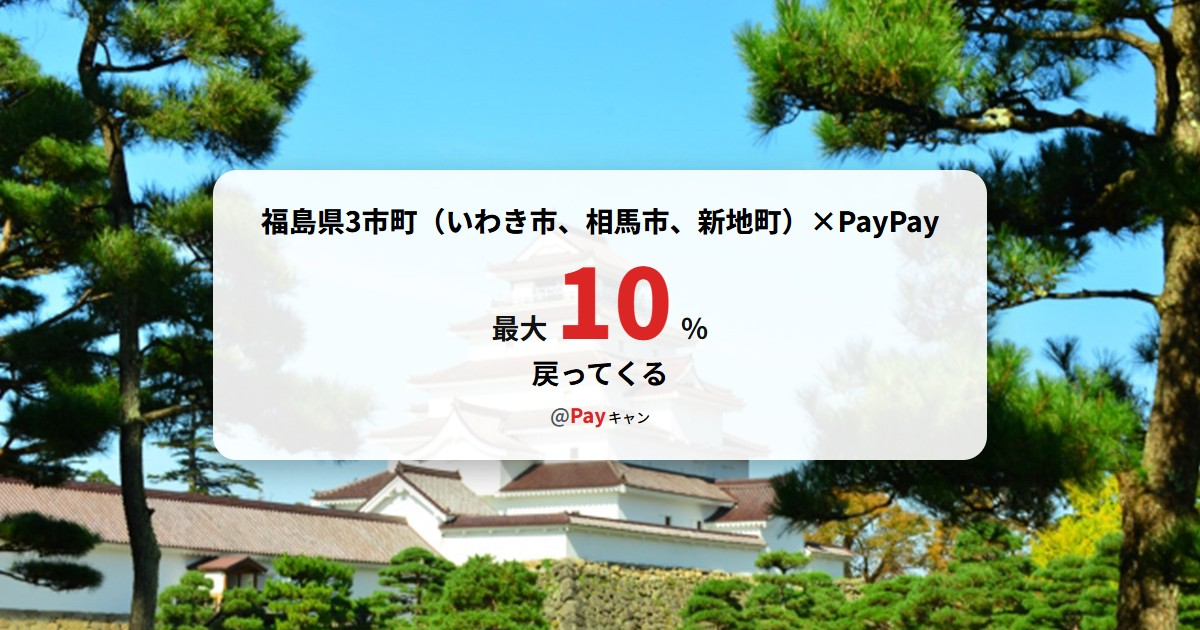
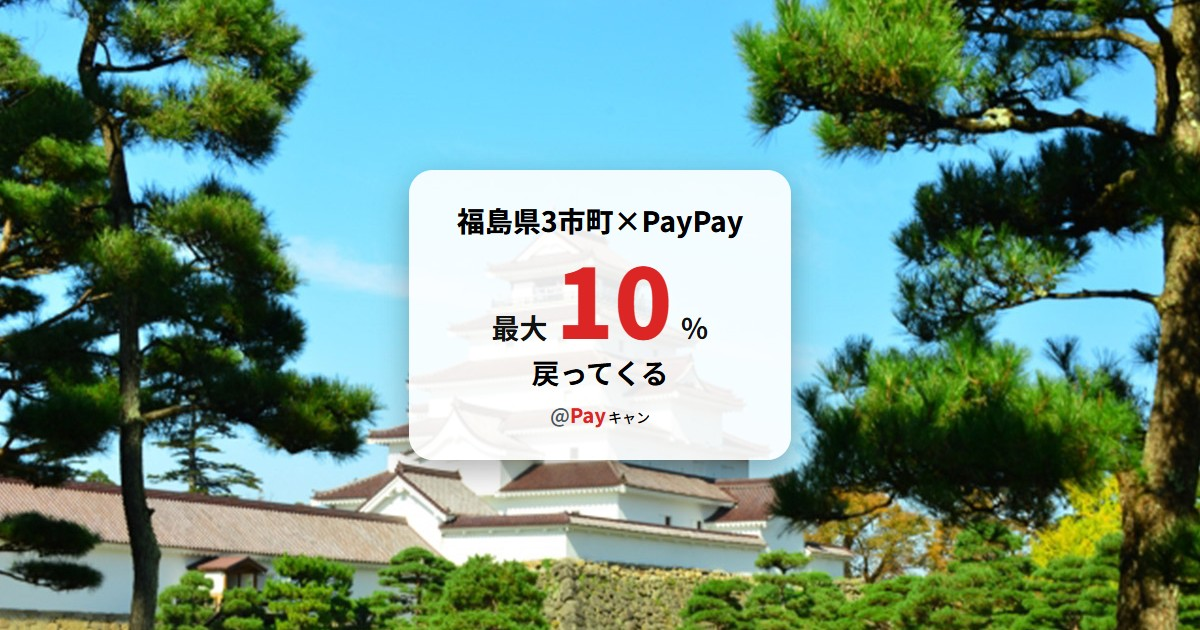
画像作成

Changed region(s): [[0.1542, 0.2413, 0.8325, 0.7841]]

diff --git a/src/lib/campaignMasterOgp.ts b/src/lib/campaignMasterOgp.ts
@@ -1,0 +1,60 @@
+import type { Campaign } from "@/types/campaign";
+
+export const campaignsA: Campaign[] = [
+{ paytype: "paypay", prefectureSlug: "ishikawa", citySlug: "shiga", prefecture: "石川県", city: "志賀町", offer: 20, startDate: "2025-05-07", endDate: "2025-07-06", onepoint: "2000", fullpoint: "8000", campaigntitle: "「買える、志賀町」　ポイントが「還る、志賀町」キャンペーン", notice: "", datePublished: "2025-04-07", dateModified: "2025-07-06", officialUrl: "https://www.town.shika.lg.jp/kankou/roudousya_syouhisya/PayPaypromotion_2025_01.html" },
+  { paytype: "paypay", prefectureSlug: "wakayama", citySlug: "tanabe", prefecture: "和歌山県", city: "田辺市", offer: 20, startDate: "2025-06-01", endDate: "2025-07-15", onepoint: "1000", fullpoint: "3000", campaigntitle: "キャッシュレス決済ポイント最大20％戻ってくるキャンペーン", notice: "", datePublished: "2025-05-02", dateModified: "2025-06-15", officialUrl: "https://www.city.tanabe.lg.jp/shoukou/cashless.html" },
+  { paytype: "aupay", prefectureSlug: "wakayama", citySlug: "tanabe", prefecture: "和歌山県", city: "田辺市", offer: 20, startDate: "2025-06-01", endDate: "2025-07-15", onepoint: "1000", fullpoint: "3000", campaigntitle: "未来へつながる道田辺市 キャッシュレスでauPAY残高最大20％戻ってくる", notice: "", datePublished: "2025-05-02", dateModified: "2025-07-15", officialUrl: "https://www.city.tanabe.lg.jp/shoukou/cashless.html" },
+  { paytype: "rakutenpay", prefectureSlug: "wakayama", citySlug: "tanabe", prefecture: "和歌山県", city: "田辺市", offer: 20, startDate: "2025-06-01", endDate: "2025-07-15", onepoint: "1000", fullpoint: "3000", campaigntitle: "田辺市キャッシュレス決済ポイント 最大20％戻ってくるキャンペーン第3弾", notice: "", datePublished: "2025-05-02", dateModified: "2025-07-15", officialUrl: "https://www.city.tanabe.lg.jp/shoukou/cashless.html" },
+  { paytype: "dbarai", prefectureSlug: "wakayama", citySlug: "tanabe", prefecture: "和歌山県", city: "田辺市", offer: 20, startDate: "2025-06-01", endDate: "2025-07-15", onepoint: "1000", fullpoint: "3000", campaigntitle: "キャッシュレス決済ポイント最大20％戻ってくるキャンペーン", notice: "", datePublished: "2025-05-02", dateModified: "2025-06-15", officialUrl: "https://www.city.tanabe.lg.jp/shoukou/cashless.html" },
+  { paytype: "paypay", prefectureSlug: "iwate", citySlug: "oshu", prefecture: "岩手県", city: "奥州市", offer: 20, startDate: "2025-06-21", endDate: "2025-07-31", onepoint: "5000", fullpoint: "10000", campaigntitle: "物価高騰に負けるな奥州！～対象店舗でPayPayを利用すると最大20％が戻ってくるキャンペーン～", notice: "", datePublished: "2025-05-22", dateModified: "2025-06-20", officialUrl: "https://www.city.oshu.iwate.jp/soshiki/6/1053/16013.html" },
+  { paytype: "paypay", prefectureSlug: "iwate", citySlug: "kanegasaki", prefecture: "岩手県", city: "金ケ崎町", offer: 20, startDate: "2025-07-01", endDate: "2025-07-21", onepoint: "5000", fullpoint: "10000", campaigntitle: "第4弾がんばれ金ケ崎！対象のお店で最大20％戻ってくるキャンペーン", notice: "", datePublished: "2025-06-01", dateModified: "2025-07-21", officialUrl: "https://www.town.kanegasaki.iwate.jp/articles/2025060900020/" },
+  { paytype: "paypay", prefectureSlug: "iwate", citySlug: "hirono", prefecture: "岩手県", city: "洋野町", offer: 20, startDate: "2025-07-01", endDate: "2025-07-31", onepoint: "2000", fullpoint: "5000", campaigntitle: "キャッシュレスで得しよう！ひろのスマイル還元キャンペーン", notice: "", datePublished: "2025-06-01", dateModified: "2025-06-20", officialUrl: "https://www.town.hirono.iwate.jp/doc/2025061100030/" },
+  { paytype: "dbarai", prefectureSlug: "iwate", citySlug: "hirono", prefecture: "岩手県", city: "洋野町", offer: 20, startDate: "2025-07-01", endDate: "2025-07-31", onepoint: "2000", fullpoint: "5000", campaigntitle: "キャッシュレスで得しよう！ひろのスマイル還元キャンペーン", notice: "", datePublished: "2025-06-01", dateModified: "2025-06-20", officialUrl: "https://www.town.hirono.iwate.jp/doc/2025061100030/" },
+  { paytype: "paypay", prefectureSlug: "iwate", citySlug: "hachimantai", prefecture: "岩手県", city: "八幡平市", offer: 20, startDate: "2025-07-01", endDate: "2025-09-30", onepoint: "10000", fullpoint: "10000", campaigntitle: "八幡平市でPayPay！最大20％戻ってくるキャンペーン", notice: "", datePublished: "2025-06-01", dateModified: "2025-09-30", officialUrl: "https://www.shokokai.com/hachimantai/campaign_cashless.html" },
+  { paytype: "paypay", prefectureSlug: "aichi", citySlug: "ama", prefecture: "愛知県", city: "あま市", offer: 10, startDate: "2025-07-01", endDate: "2025-07-31", onepoint: "1000", fullpoint: "5000", campaigntitle: "市内事業者応援！第3弾あまトクPayPayキャンペーン", notice: "", datePublished: "2025-06-01", dateModified: "2025-06-20", officialUrl: "https://www.city.ama.aichi.jp/bussiness/sangyo/syoukou/1006629/1009245/index.html" },
+  { paytype: "paypay", prefectureSlug: "tochigi", citySlug: "yaita", prefecture: "栃木県", city: "矢板市", offer: 20, startDate: "2025-07-25", endDate: "2025-08-24", onepoint: "1000", fullpoint: "10000", campaigntitle: "やいた暮らし応援キャンペーン", notice: "", datePublished: "2025-06-25", dateModified: "2025-08-24", officialUrl: "https://www.city.yaita.tochigi.jp/soshiki/syoukou/yaita-kyassyuresu202505.html" },
+  { paytype: "paypay", prefectureSlug: "kanagawa", citySlug: "sagamihara", prefecture: "神奈川県", city: "相模原市", offer: 20, startDate: "2025-07-01", endDate: "2025-07-31", onepoint: "1000", fullpoint: "2500", campaigntitle: "“さがみはら”のお店を応援！最大20％戻ってくるキャンペーン2025", notice: "", datePublished: "2025-06-01", dateModified: "2025-06-20", officialUrl: "https://www.city.sagamihara.kanagawa.jp/sangyo/sangyo/1026664/1003291/1033219.html" },
+  { paytype: "aupay", prefectureSlug: "kanagawa", citySlug: "sagamihara", prefecture: "神奈川県", city: "相模原市", offer: 20, startDate: "2025-07-01", endDate: "2025-07-31", onepoint: "1000", fullpoint: "2500", campaigntitle: "“さがみはら”のお店を応援！最大20％戻ってくるキャンペーン2025", notice: "", datePublished: "2025-06-01", dateModified: "2025-06-20", officialUrl: "https://www.city.sagamihara.kanagawa.jp/sangyo/sangyo/1026664/1003291/1033219.html" },
+  { paytype: "rakutenpay", prefectureSlug: "kanagawa", citySlug: "sagamihara", prefecture: "神奈川県", city: "相模原市", offer: 20, startDate: "2025-07-01", endDate: "2025-07-31", onepoint: "1000", fullpoint: "2500", campaigntitle: "“さがみはら”のお店を応援！最大20％戻ってくるキャンペーン2025", notice: "", datePublished: "2025-06-01", dateModified: "2025-06-20", officialUrl: "https://www.city.sagamihara.kanagawa.jp/sangyo/sangyo/1026664/1003291/1033219.html" },
+  { paytype: "dbarai", prefectureSlug: "kanagawa", citySlug: "sagamihara", prefecture: "神奈川県", city: "相模原市", offer: 20, startDate: "2025-07-01", endDate: "2025-07-31", onepoint: "1000", fullpoint: "2500", campaigntitle: "“さがみはら”のお店を応援！最大20％戻ってくるキャンペーン2025", notice: "", datePublished: "2025-06-01", dateModified: "2025-06-20", officialUrl: "https://www.city.sagamihara.kanagawa.jp/sangyo/sangyo/1026664/1003291/1033219.html" },
+  { paytype: "paypay", prefectureSlug: "tokushima", citySlug: "tokushima", prefecture: "徳島県", city: "徳島市", offer: 10, startDate: "2025-07-01", endDate: "2025-07-31", onepoint: "1000", fullpoint: "3000", campaigntitle: "徳島市内のお店で買い物しよう！最大10％戻ってくるキャンペーン", notice: "", datePublished: "2025-06-01", dateModified: "2025-06-20", officialUrl: "https://www.city.tokushima.tokushima.jp/shisei/keizai/kyassyuresu/r7_cashless.html" },
+  { paytype: "aupay", prefectureSlug: "tokushima", citySlug: "tokushima", prefecture: "徳島県", city: "徳島市", offer: 10, startDate: "2025-07-01", endDate: "2025-07-31", onepoint: "1000", fullpoint: "3000", campaigntitle: "徳島市内のお店で買い物しよう！最大10％戻ってくるキャンペーン", notice: "", datePublished: "2025-06-01", dateModified: "2025-06-20", officialUrl: "https://www.city.tokushima.tokushima.jp/shisei/keizai/kyassyuresu/r7_cashless.html" },
+  { paytype: "rakutenpay", prefectureSlug: "tokushima", citySlug: "tokushima", prefecture: "徳島県", city: "徳島市", offer: 10, startDate: "2025-07-01", endDate: "2025-07-31", onepoint: "1000", fullpoint: "3000", campaigntitle: "徳島市内のお店で買い物しよう！最大10％戻ってくるキャンペーン", notice: "", datePublished: "2025-06-01", dateModified: "2025-06-20", officialUrl: "https://www.city.tokushima.tokushima.jp/shisei/keizai/kyassyuresu/r7_cashless.html" },
+  { paytype: "dbarai", prefectureSlug: "tokushima", citySlug: "tokushima", prefecture: "徳島県", city: "徳島市", offer: 10, startDate: "2025-07-01", endDate: "2025-07-31", onepoint: "1000", fullpoint: "3000", campaigntitle: "徳島市内のお店で買い物しよう！最大10％戻ってくるキャンペーン", notice: "", datePublished: "2025-06-01", dateModified: "2025-06-20", officialUrl: "https://www.city.tokushima.tokushima.jp/shisei/keizai/kyassyuresu/r7_cashless.html" },
+  { paytype: "aeonpay", prefectureSlug: "tokushima", citySlug: "tokushima", prefecture: "徳島県", city: "徳島市", offer: 10, startDate: "2025-07-01", endDate: "2025-07-31", onepoint: "1000", fullpoint: "3000", campaigntitle: "徳島市内のお店で買い物しよう！最大10％戻ってくるキャンペーン", notice: "", datePublished: "2025-06-01", dateModified: "2025-06-20", officialUrl: "https://www.city.tokushima.tokushima.jp/shisei/keizai/kyassyuresu/r7_cashless.html" },
+  { paytype: "paypay", prefectureSlug: "tochigi", citySlug: "kanuma", prefecture: "栃木県", city: "鹿沼市", offer: 20, startDate: "2025-08-01", endDate: "2025-08-31", onepoint: "1000", fullpoint: "2000", campaigntitle: "～鹿沼・粟野合併20周年記念事業～ 最大20％戻ってくる！鹿沼市キャッシュレスキャンペーン", notice: "", datePublished: "2025-06-13", dateModified: "2025-06-19", officialUrl: "https://www.city.kanuma.tochigi.jp/0655/info-0000010468-1.html" },
+  { paytype: "paypay", prefectureSlug: "tokyo", citySlug: "ota", prefecture: "東京都", city: "大田区", offer: 20, startDate: "2025-08-01", endDate: "2025-08-31", onepoint: "2000", fullpoint: "5000", campaigntitle: "大田区でレッツキャッシュレス！ 最大20％戻ってくるキャンペーン", notice: "", datePublished: "2025-06-13", dateModified: "2025-06-19", officialUrl: "https://www.city.ota.tokyo.jp/sangyo/syogyo_sangyo/topics/pointkangen.html" },
+  { paytype: "paypay", prefectureSlug: "aichi", citySlug: "kitanagoya", prefecture: "愛知県", city: "北名古屋市", offer: 20, startDate: "2025-08-01", endDate: "2025-08-31", onepoint: "2000", fullpoint: "10000", campaigntitle: "北名古屋のお店をおトクに応援！！キャッシュレスで最大20％戻ってくるキャンペーン", notice: "", datePublished: "2025-06-02", dateModified: "2025-06-19", officialUrl: "https://www.city.kitanagoya.lg.jp/sangyo/shokogyo/1006723.html" },
+  { paytype: "aupay", prefectureSlug: "aichi", citySlug: "kitanagoya", prefecture: "愛知県", city: "北名古屋市", offer: 20, startDate: "2025-08-01", endDate: "2025-08-31", onepoint: "2000", fullpoint: "10000", campaigntitle: "北名古屋のお店をおトクに応援！！キャッシュレスで最大20％戻ってくるキャンペーン", notice: "", datePublished: "2025-06-02", dateModified: "2025-06-19", officialUrl: "https://www.city.kitanagoya.lg.jp/sangyo/shokogyo/1006723.html" },
+  { paytype: "rakutenpay", prefectureSlug: "aichi", citySlug: "kitanagoya", prefecture: "愛知県", city: "北名古屋市", offer: 20, startDate: "2025-08-01", endDate: "2025-08-31", onepoint: "2000", fullpoint: "10000", campaigntitle: "北名古屋のお店をおトクに応援！！キャッシュレスで最大20％戻ってくるキャンペーン", notice: "", datePublished: "2025-06-02", dateModified: "2025-06-19", officialUrl: "https://www.city.kitanagoya.lg.jp/sangyo/shokogyo/1006723.html" },
+  { paytype: "dbarai", prefectureSlug: "aichi", citySlug: "kitanagoya", prefecture: "愛知県", city: "北名古屋市", offer: 20, startDate: "2025-08-01", endDate: "2025-08-31", onepoint: "2000", fullpoint: "10000", campaigntitle: "北名古屋のお店をおトクに応援！！キャッシュレスで最大20％戻ってくるキャンペーン", notice: "", datePublished: "2025-06-02", dateModified: "2025-06-19", officialUrl: "https://www.city.kitanagoya.lg.jp/sangyo/shokogyo/1006723.html" },
+  { paytype: "paypay", prefectureSlug: "mie", citySlug: "kuwana", prefecture: "三重県", city: "桑名市", offer: 20, startDate: "2025-08-01", endDate: "2025-08-31", onepoint: "3000", fullpoint: "10000", campaigntitle: "がんばれ桑名！“対象店舗で最大20％戻ってくる”キャンペーン　第4弾", notice: "", datePublished: "2025-06-13", dateModified: "2025-06-19", officialUrl: "" },
+  { paytype: "paypay", prefectureSlug: "hiroshima", citySlug: "otake", prefecture: "広島県", city: "大竹市", offer: 20, startDate: "2025-08-01", endDate: "2025-08-30", onepoint: "1000", fullpoint: "5000", campaigntitle: "PayPayで大竹市を盛り上げよう！キャッシュレスキャンペーン！", notice: "", datePublished: "2025-06-13", dateModified: "2025-08-30", officialUrl: "https://www.city.otake.hiroshima.jp/topics/8006.html" },
+  { paytype: "paypay", prefectureSlug: "kumamoto", citySlug: "yatsushiro", prefecture: "熊本県", city: "八代市", offer: 20, startDate: "2025-08-01", endDate: "2025-08-31", onepoint: "1000", fullpoint: "4000", campaigntitle: "～新市誕生20周年記念キャンペーン～八代市でお買い物すると最大20％ポイント還元！", notice: "", datePublished: "2025-06-13", dateModified: "2025-06-19", officialUrl: "https://mykoho.jp/article/432024/9487695/9558889" },
+  { paytype: "aupay", prefectureSlug: "kumamoto", citySlug: "yatsushiro", prefecture: "熊本県", city: "八代市", offer: 20, startDate: "2025-08-01", endDate: "2025-08-31", onepoint: "1000", fullpoint: "4000", campaigntitle: "～新市誕生20周年記念キャンペーン～八代市でお買い物すると最大20％ポイント還元！", notice: "", datePublished: "2025-06-13", dateModified: "2025-06-19", officialUrl: "https://mykoho.jp/article/432024/9487695/9558889" },
+  { paytype: "rakutenpay", prefectureSlug: "kumamoto", citySlug: "yatsushiro", prefecture: "熊本県", city: "八代市", offer: 20, startDate: "2025-08-01", endDate: "2025-08-31", onepoint: "1000", fullpoint: "4000", campaigntitle: "～新市誕生20周年記念キャンペーン～八代市でお買い物すると最大20％ポイント還元！", notice: "", datePublished: "2025-06-13", dateModified: "2025-06-19", officialUrl: "https://mykoho.jp/article/432024/9487695/9558889" },
+  { paytype: "dbarai", prefectureSlug: "kumamoto", citySlug: "yatsushiro", prefecture: "熊本県", city: "八代市", offer: 20, startDate: "2025-08-01", endDate: "2025-08-31", onepoint: "1000", fullpoint: "4000", campaigntitle: "～新市誕生20周年記念キャンペーン～八代市でお買い物すると最大20％ポイント還元！", notice: "", datePublished: "2025-06-13", dateModified: "2025-06-19", officialUrl: "https://mykoho.jp/article/432024/9487695/9558889" },
+  { paytype: "aeonpay", prefectureSlug: "kumamoto", citySlug: "yatsushiro", prefecture: "熊本県", city: "八代市", offer: 20, startDate: "2025-08-01", endDate: "2025-08-31", onepoint: "1000", fullpoint: "4000", campaigntitle: "～新市誕生20周年記念キャンペーン～八代市でお買い物すると最大20％ポイント還元！", notice: "", datePublished: "2025-06-13", dateModified: "2025-06-19", officialUrl: "https://mykoho.jp/article/432024/9487695/9558889" },
+  { paytype: "paypay", prefectureSlug: "fukushima", citySlug: "12shichoson", prefecture: "福島県", city: "12市町村", offer: 20, startDate: "2025-07-25", endDate: "2025-08-17", onepoint: "5000", fullpoint: "5000", campaigntitle: "第9弾 福島県浜通り地域等12市町村（田村市、南相馬市、川俣町、広野町、楢葉町、富岡町、川内村、大熊町、双葉町、浪江町、葛尾村、飯舘村）「do!浜通り」PayPayポイント最大20％戻ってくるキャンペーン", notice: "", datePublished: "2025-06-13", dateModified: "2025-06-18", officialUrl: "https://dohamadori.com/" },
+  { paytype: "aupay", prefectureSlug: "fukushima", citySlug: "12shichoson", prefecture: "福島県", city: "12市町村", offer: 20, startDate: "2025-07-25", endDate: "2025-08-17", onepoint: "5000", fullpoint: "5000", campaigntitle: "第9弾 福島県浜通り地域等12市町村（田村市、南相馬市、川俣町、広野町、楢葉町、富岡町、川内村、大熊町、双葉町、浪江町、葛尾村、飯舘村）「do!浜通り」PayPayポイント最大20％戻ってくるキャンペーン", notice: "", datePublished: "2025-06-13", dateModified: "2025-06-18", officialUrl: "https://dohamadori.com/" },
+  { paytype: "rakutenpay", prefectureSlug: "fukushima", citySlug: "12shichoson", prefecture: "福島県", city: "12市町村", offer: 20, startDate: "2025-07-25", endDate: "2025-08-17", onepoint: "5000", fullpoint: "5000", campaigntitle: "第9弾 福島県浜通り地域等12市町村（田村市、南相馬市、川俣町、広野町、楢葉町、富岡町、川内村、大熊町、双葉町、浪江町、葛尾村、飯舘村）「do!浜通り」PayPayポイント最大20％戻ってくるキャンペーン", notice: "", datePublished: "2025-06-13", dateModified: "2025-06-18", officialUrl: "https://dohamadori.com/" },
+  { paytype: "dbarai", prefectureSlug: "fukushima", citySlug: "12shichoson", prefecture: "福島県", city: "12市町村", offer: 20, startDate: "2025-07-25", endDate: "2025-08-17", onepoint: "5000", fullpoint: "5000", campaigntitle: "第9弾 福島県浜通り地域等12市町村（田村市、南相馬市、川俣町、広野町、楢葉町、富岡町、川内村、大熊町、双葉町、浪江町、葛尾村、飯舘村）「do!浜通り」PayPayポイント最大20％戻ってくるキャンペーン", notice: "", datePublished: "2025-06-13", dateModified: "2025-06-18", officialUrl: "https://dohamadori.com/" },
+  { paytype: "paypay", prefectureSlug: "fukushima", citySlug: "3shicho", prefecture: "福島県", city: "3市町", offer: 10, startDate: "2025-07-25", endDate: "2025-08-17", onepoint: "2500", fullpoint: "2500", campaigntitle: "第7弾 福島県浜通り地域等3市町（いわき市、相馬市、新地町）「do!浜通り」PayPayポイント最大10％戻ってくるキャンペーン", notice: "", datePublished: "2025-06-13", dateModified: "2025-06-18", officialUrl: "https://dohamadori.com/" },
+  { paytype: "aupay", prefectureSlug: "fukushima", citySlug: "3shicho", prefecture: "福島県", city: "3市町", offer: 10, startDate: "2025-07-25", endDate: "2025-08-17", onepoint: "2500", fullpoint: "2500", campaigntitle: "第7弾 福島県浜通り地域等3市町（いわき市、相馬市、新地町）「do!浜通り」PayPayポイント最大10％戻ってくるキャンペーン", notice: "", datePublished: "2025-06-13", dateModified: "2025-06-18", officialUrl: "https://dohamadori.com/" },
+  { paytype: "rakutenpay", prefectureSlug: "fukushima", citySlug: "3shicho", prefecture: "福島県", city: "3市町", offer: 10, startDate: "2025-07-25", endDate: "2025-08-17", onepoint: "2500", fullpoint: "2500", campaigntitle: "第7弾 福島県浜通り地域等3市町（いわき市、相馬市、新地町）「do!浜通り」PayPayポイント最大10％戻ってくるキャンペーン", notice: "", datePublished: "2025-06-13", dateModified: "2025-06-18", officialUrl: "https://dohamadori.com/" },
+  { paytype: "dbarai", prefectureSlug: "fukushima", citySlug: "3shicho", prefecture: "福島県", city: "3市町", offer: 10, startDate: "2025-07-25", endDate: "2025-08-17", onepoint: "2500", fullpoint: "2500", campaigntitle: "第7弾 福島県浜通り地域等3市町（いわき市、相馬市、新地町）「do!浜通り」PayPayポイント最大10％戻ってくるキャンペーン", notice: "", datePublished: "2025-06-13", dateModified: "2025-06-18", officialUrl: "https://dohamadori.com/" },
+  { paytype: "paypay", prefectureSlug: "chiba", citySlug: "zeniki", prefecture: "千葉県", city: "全域", offer: 10, startDate: "2025-08-01", endDate: "2025-08-17", onepoint: "3000", fullpoint: "3000", campaigntitle: "ポイント貯めて夏を満喫！キャッシュレス決済キャンペーン", notice: "", datePublished: "2025-06-13", dateModified: "2025-06-18", officialUrl: "https://www.pref.chiba.lg.jp/keisei/press/2025/r7cashless-campaign.html" },
+  { paytype: "aupay", prefectureSlug: "chiba", citySlug: "zeniki", prefecture: "千葉県", city: "全域", offer: 10, startDate: "2025-08-01", endDate: "2025-08-17", onepoint: "3000", fullpoint: "3000", campaigntitle: "ポイント貯めて夏を満喫！キャッシュレス決済キャンペーン", notice: "", datePublished: "2025-06-13", dateModified: "2025-06-18", officialUrl: "https://www.pref.chiba.lg.jp/keisei/press/2025/r7cashless-campaign.html" },
+  { paytype: "rakutenpay", prefectureSlug: "chiba", citySlug: "zeniki", prefecture: "千葉県", city: "全域", offer: 10, startDate: "2025-08-01", endDate: "2025-08-17", onepoint: "3000", fullpoint: "3000", campaigntitle: "ポイント貯めて夏を満喫！キャッシュレス決済キャンペーン", notice: "", datePublished: "2025-06-13", dateModified: "2025-06-18", officialUrl: "https://www.pref.chiba.lg.jp/keisei/press/2025/r7cashless-campaign.html" },
+  { paytype: "dbarai", prefectureSlug: "chiba", citySlug: "zeniki", prefecture: "千葉県", city: "全域", offer: 10, startDate: "2025-08-01", endDate: "2025-08-17", onepoint: "3000", fullpoint: "3000", campaigntitle: "ポイント貯めて夏を満喫！キャッシュレス決済キャンペーン", notice: "", datePublished: "2025-06-13", dateModified: "2025-06-18", officialUrl: "https://www.pref.chiba.lg.jp/keisei/press/2025/r7cashless-campaign.html" },
+  { paytype: "aeonpay", prefectureSlug: "chiba", citySlug: "zeniki", prefecture: "千葉県", city: "全域", offer: 10, startDate: "2025-08-01", endDate: "2025-08-17", onepoint: "3000", fullpoint: "3000", campaigntitle: "ポイント貯めて夏を満喫！キャッシュレス決済キャンペーン", notice: "", datePublished: "2025-06-13", dateModified: "2025-06-18", officialUrl: "https://www.pref.chiba.lg.jp/keisei/press/2025/r7cashless-campaign.html" },
+  { paytype: "paypay", prefectureSlug: "tokyo", citySlug: "nerima", prefecture: "東京都", city: "練馬区", offer: 10, startDate: "2025-07-01", endDate: "2025-08-10", onepoint: "3000", fullpoint: "5000", campaigntitle: "練馬区内のお店でお買い物！最大10％戻ってくるキャンペーン！", notice: "", datePublished: "2025-06-01", dateModified: "2025-08-10", officialUrl: "https://www.city.nerima.tokyo.jp/kusei/sangyo/oshirase/cashless02.html" },
+  { paytype: "paypay", prefectureSlug: "osaka", citySlug: "daito", prefecture: "大阪府", city: "大東市", offer: 10, startDate: "2025-07-01", endDate: "2025-07-31", onepoint: "1000", fullpoint: "5000", campaigntitle: "大東市地域応援キャンペーン", notice: "", datePublished: "2025-06-01", dateModified: "2025-06-20", officialUrl: "https://www.city.daito.lg.jp/soshiki/5/62033.html" },
+  { paytype: "aupay", prefectureSlug: "osaka", citySlug: "daito", prefecture: "大阪府", city: "大東市", offer: 10, startDate: "2025-07-01", endDate: "2025-07-31", onepoint: "1000", fullpoint: "5000", campaigntitle: "大東市地域応援キャンペーン", notice: "", datePublished: "2025-06-01", dateModified: "2025-06-20", officialUrl: "https://www.city.daito.lg.jp/soshiki/5/62033.html" },
+  { paytype: "rakutenpay", prefectureSlug: "osaka", citySlug: "daito", prefecture: "大阪府", city: "大東市", offer: 10, startDate: "2025-07-01", endDate: "2025-07-31", onepoint: "1000", fullpoint: "5000", campaigntitle: "大東市地域応援キャンペーン", notice: "", datePublished: "2025-06-01", dateModified: "2025-06-20", officialUrl: "https://www.city.daito.lg.jp/soshiki/5/62033.html" },
+  { paytype: "dbarai", prefectureSlug: "osaka", citySlug: "daito", prefecture: "大阪府", city: "大東市", offer: 10, startDate: "2025-07-01", endDate: "2025-07-31", onepoint: "1000", fullpoint: "5000", campaigntitle: "大東市地域応援キャンペーン", notice: "", datePublished: "2025-06-01", dateModified: "2025-06-20", officialUrl: "https://www.city.daito.lg.jp/soshiki/5/62033.html" },
+  { paytype: "paypay", prefectureSlug: "chiba", citySlug: "sodegaura", prefecture: "千葉県", city: "袖ケ浦市", offer: 20, startDate: "2025-07-01", endDate: "2025-07-31", onepoint: "1000", fullpoint: "3000", campaigntitle: "第3弾 キャッシュレスで最大20％戻ってくる！そでがうら夏の買物大作戦！", notice: "", datePublished: "2025-06-01", dateModified: "2025-06-20", officialUrl: "https://www.city.sodegaura.lg.jp/soshiki/shoukou/cashless-campaign-3rd.html" },
+  { paytype: "aupay", prefectureSlug: "chiba", citySlug: "sodegaura", prefecture: "千葉県", city: "袖ケ浦市", offer: 20, startDate: "2025-07-01", endDate: "2025-07-31", onepoint: "1000", fullpoint: "3000", campaigntitle: "第3弾 キャッシュレスで最大20％戻ってくる！そでがうら夏の買物大作戦！", notice: "", datePublished: "2025-06-01", dateModified: "2025-06-20", officialUrl: "https://www.city.sodegaura.lg.jp/soshiki/shoukou/cashless-campaign-3rd.html" },
+  { paytype: "rakutenpay", prefectureSlug: "chiba", citySlug: "sodegaura", prefecture: "千葉県", city: "袖ケ浦市", offer: 20, startDate: "2025-07-01", endDate: "2025-07-31", onepoint: "1000", fullpoint: "3000", campaigntitle: "第3弾 キャッシュレスで最大20％戻ってくる！そでがうら夏の買物大作戦！", notice: "", datePublished: "2025-06-01", dateModified: "2025-06-20", officialUrl: "https://www.city.sodegaura.lg.jp/soshiki/shoukou/cashless-campaign-3rd.html" },
+  { paytype: "dbarai", prefectureSlug: "chiba", citySlug: "sodegaura", prefecture: "千葉県", city: "袖ケ浦市", offer: 20, startDate: "2025-07-01", endDate: "2025-07-31", onepoint: "1000", fullpoint: "3000", campaigntitle: "第3弾 キャッシュレスで最大20％戻ってくる！そでがうら夏の買物大作戦！", notice: "", datePublished: "2025-06-01", dateModified: "2025-06-20", officialUrl: "https://www.city.sodegaura.lg.jp/soshiki/shoukou/cashless-campaign-3rd.html" },
+];

diff --git a/scripts/generate-all.js b/scripts/generate-all.js
@@ -2,23 +2,25 @@ const fs = require("fs");
 const path = require("path");
 const puppeteer = require("puppeteer");
 
-// ts-node経由でTypeScriptファイルを読み込む
+// ts-node 経由で TypeScript を使用
 require("ts-node").register();
-const { campaigns } = require("../src/lib/campaignMaster");
+
+// ✅ campaignsA をインポート
+const { campaignsA } = require("../src/lib/campaignMasterOgp");
 const { PayTypeLabels } = require("../src/lib/payType");
 
 // HTMLテンプレート読み込み
 const TEMPLATE_PATH = path.resolve(__dirname, "./templates/template.html");
 const templateBase = fs.readFileSync(TEMPLATE_PATH, "utf-8");
 
-// 出力ディレクトリの設定（なければ作成）
+// 出力先ディレクトリ（存在しなければ作成）
 const OUTPUT_DIR = path.resolve(__dirname, "../public/images/campaigns/ogp");
 if (!fs.existsSync(OUTPUT_DIR)) fs.mkdirSync(OUTPUT_DIR, { recursive: true });
 
 (async () => {
   const browser = await puppeteer.launch();
 
-  for (const campaign of campaigns) {
+  for (const campaign of campaignsA) {
     const {
       prefecture,
       city,
@@ -28,42 +30,33 @@ if (!fs.existsSync(OUTPUT_DIR)) fs.mkdirSync(OUTPUT_DIR, { recursive: true });
       paytype
     } = campaign;
 
-    // 表示用ラベル（例：PayPay、au PAY）
     const payLabel = PayTypeLabels[paytype] || "Pay";
-
-    // テキストとして画像中央に表示される文言
     const title = `${prefecture}${city}×${payLabel}`;
 
-    // 背景画像のパス（事前に配置されている必要あり）
     const backgroundPath = path.resolve(
       __dirname,
       `../public/images/campaigns/${prefectureSlug}-${citySlug}.jpg`
     );
 
-    // 出力ファイル名（小文字、paytypeはslug）
     const outputFilename = `${prefectureSlug}-${citySlug}-${paytype}-ogp.jpg`;
     const outputPath = path.resolve(OUTPUT_DIR, outputFilename);
 
-    // 背景画像の存在確認
     if (!fs.existsSync(backgroundPath)) {
       console.warn(`⚠ 背景画像が見つかりません: ${backgroundPath}`);
       continue;
     }
 
-    // テンプレートへ変数埋め込み
     const html = templateBase
       .replace(/__TITLE__/g, title)
       .replace(/__OFFER__/g, offer)
       .replace(/__IMAGE_PATH__/g, backgroundPath.replace(/\\/g, "/"));
 
-    // 一時HTMLファイル生成
     const tempFile = path.resolve(__dirname, "temp.html");
     fs.writeFileSync(tempFile, html);
 
     const page = await browser.newPage();
     await page.goto(`file://${tempFile}`, { waitUntil: "networkidle0" });
 
-    // スクリーンショットとしてOGP画像を保存
     await page.screenshot({
       path: outputPath,
       type: "jpeg",
@@ -73,8 +66,14 @@ if (!fs.existsSync(OUTPUT_DIR)) fs.mkdirSync(OUTPUT_DIR, { recursive: true });
 
     await page.close();
     console.log(`✅ 作成完了: ${outputFilename}`);
+
+    // 不要なテンポラリファイルを削除
+    try {
+      fs.unlinkSync(tempFile);
+    } catch (e) {
+      console.warn(`⚠ 一時HTMLファイル削除に失敗しました: ${e.message}`);
+    }
   }
 
   await browser.close();
-  fs.unlinkSync(path.resolve(__dirname, "temp.html"));
 })();
